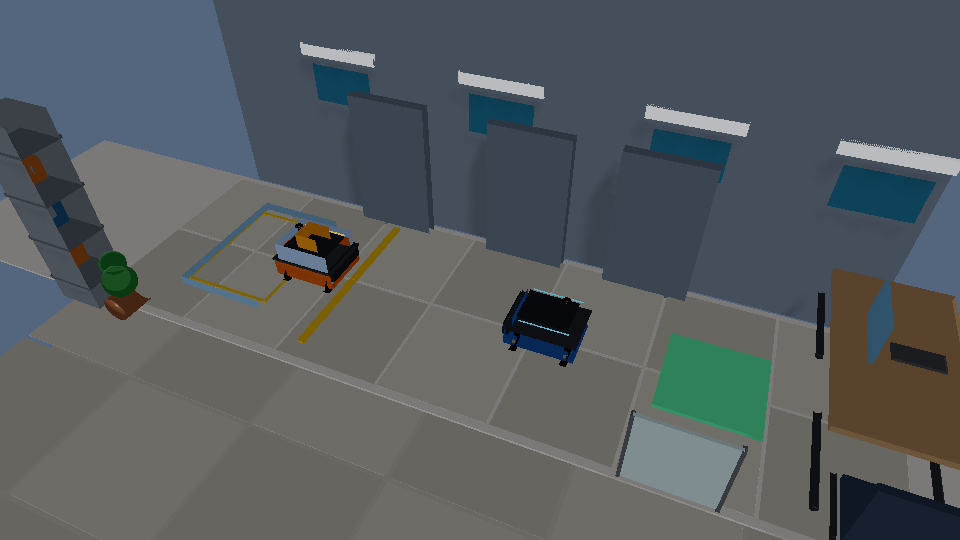
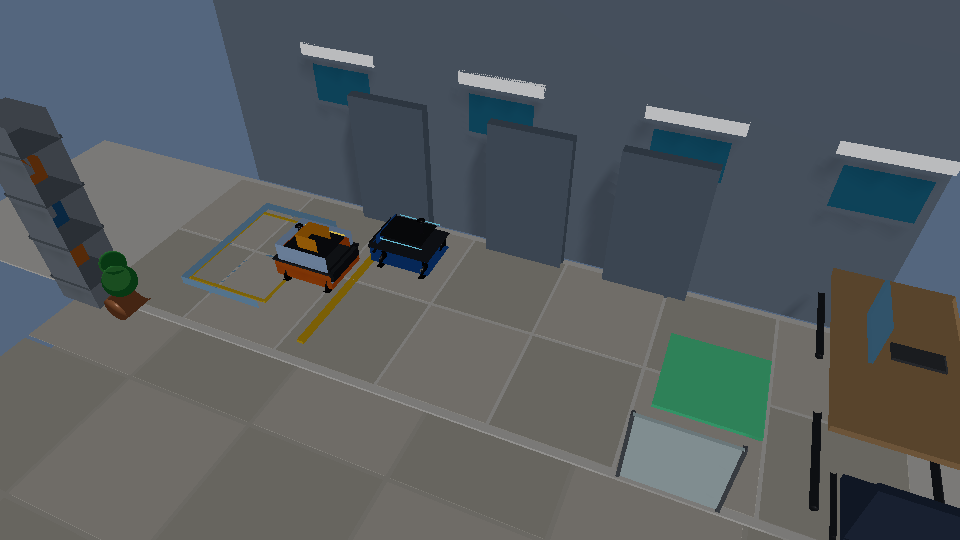
fix: let the two office AGVs pass each other instead of retreating (#336)
The Office AGV showcase was illegible: the oncoming vehicle drove into
the aisle, stopped halfway, reversed back out the way it came and parked
there for the rest of the run, while facing the same direction
throughout -- so on the return leg it slid backwards. The two vehicles
never came closer than 1.4 m, which left the ego stopping for 272 steps
to yield to something that stayed a metre and a half away and then left.

The cause was that both vehicles travelled along `z = 0`. Sharing one
line leaves the oncoming AGV no way past a waiting ego, so a U-turn was
the only exit available to it.

The corridor is 2 m wide and each vehicle is 0.4 m across, so it takes
two abreast -- except through the shared segment, which is the pinch the
yield exists for. `other_lane_z_m` now places the oncoming AGV on the
centre line while it is deep inside that segment and in its own lane
outside it, blending between the two so it is back in lane before its
footprint can reach an ego stopped at the entrance. It then drives
straight through and out, in one direction the whole way, so the fixed
render heading is the direction it is actually going.

Measured over the full rollout: closest approach between the two
vehicles goes from 1.396 m to 0.008 m in X, at step 600 -- they draw
level exactly as the ego moves off. `mission_complete`, `yielded`,
`dock_pickup` and `desk_place` all still hold and `no_other_agv_contact`
stays clear, with 0.15 m of lateral clearance.
[…]

diff --git a/crates/rne_ai/src/env/office_agv_shared_aisle.rs b/crates/rne_ai/src/env/office_agv_shared_aisle.rs
@@ -66,6 +66,25 @@ pub struct OfficeAgvSharedAisleCourse {
     pub required_yield_steps: u32,
 }
 
+/// Lane the oncoming AGV drives in outside the shared segment, as a Z offset
+/// from the corridor centre.
+///
+/// The corridor is 2 m wide and each vehicle is 0.4 m across, so outside the
+/// pinch there is room for two abreast. 0.55 m leaves 0.15 m of clearance
+/// against an ego stopped on the centre line.
+pub(crate) const OTHER_LANE_Z_M: f64 = -0.55;
+
+/// Distance inside the shared segment at which the oncoming AGV is fully on
+/// the centre line, in meters.
+const PINCH_FULL_DEPTH_M: f64 = 0.7;
+
+/// Distance inside the shared segment at which it has fully returned to its
+/// own lane, in meters.
+///
+/// It must be back in lane before its footprint can reach an ego waiting at the
+/// segment entrance, or the yield it is waiting out would end in a collision.
+const PINCH_LANE_DEPTH_M: f64 = 0.2;
+
 impl Default for OfficeAgvSharedAisleCourse {
     fn default() -> Self {
         Self {
@@ -77,7 +96,9 @@ impl Default for OfficeAgvSharedAisleCourse {
             other_start_x_m: 6.2,
             other_speed_m_s: 0.55,
             other_departure_delay_s: 4.5,
-            other_clear_x_m: 7.2,
+            // Past the near end of the shared segment and out of the framed
+            // aisle, so the vehicle leaves rather than parking mid-corridor.
+            other_clear_x_m: 0.6,
             required_yield_steps: 12,
         }
     }
@@ -100,6 +121,21 @@ impl OfficeAgvSharedAisleCourse {
     #[must_use]
     pub fn other_blocks_ego(self, other_x_m: f64) -> bool {
         self.other_occupies_shared(other_x_m)
+    }
+
+    /// Lateral position of the oncoming AGV at a given X, in meters.
+    ///
+    /// The shared segment is a single-lane pinch: both vehicles have to take
+    /// the centre line through it, which is the whole reason one of them must
+    /// yield. Outside it the corridor takes two abreast, so the AGV moves back
+    /// into its own lane and passes the waiting ego instead of reversing away
+    /// from it.
+    #[must_use]
+    pub fn other_lane_z_m(self, other_x_m: f64) -> f64 {
+        let depth_m = (other_x_m - self.shared_min_x_m).min(self.shared_max_x_m - other_x_m);
+        let centred = ((depth_m - PINCH_LANE_DEPTH_M) / (PINCH_FULL_DEPTH_M - PINCH_LANE_DEPTH_M))
+            .clamp(0.0, 1.0);
+        OTHER_LANE_Z_M * (1.0 - centred)
     }
 
     /// True when the oncoming footprint still intersects the shared segment.
@@ -278,8 +314,7 @@ enum ScriptPhase {
 #[derive(Clone, Copy, Debug, PartialEq, Eq)]
 enum OtherMotion {
     Waiting,
-    Entering,
-    Exiting,
+    Crossing,
     Cleared,
 }
 
@@ -327,25 +362,22 @@ impl OfficeAgvSharedAisleScenario {
         self.observation
     }
 
+    /// Drives the oncoming AGV down its own lane and out of the aisle.
+    ///
+    /// It travels in one direction throughout, so its heading never has to
+    /// reverse and it passes the yielding ego rather than retreating from it.
     fn advance_other_agv(&mut self) {
         let elapsed_s = self.sim.step_count() as f64 * DT_S;
         let step_m = self.course.other_speed_m_s * DT_S;
-        let turn_x_m = 0.5 * (self.course.shared_min_x_m + self.course.shared_max_x_m);
         match self.other_motion {
             OtherMotion::Waiting => {
                 if elapsed_s >= self.course.other_departure_delay_s {
-                    self.other_motion = OtherMotion::Entering;
+                    self.other_motion = OtherMotion::Crossing;
                 }
             }
-            OtherMotion::Entering => {
+            OtherMotion::Crossing => {
                 self.other_agv_x_m -= step_m;
-                if self.other_agv_x_m <= turn_x_m {
-                    self.other_motion = OtherMotion::Exiting;
-                }
-            }
-            OtherMotion::Exiting => {
-                self.other_agv_x_m += step_m;
-                if self.other_agv_x_m >= self.course.other_clear_x_m {
+                if self.other_agv_x_m <= self.course.other_clear_x_m {
                     self.other_agv_x_m = self.course.other_clear_x_m;
                     self.other_motion = OtherMotion::Cleared;
                 }
@@ -367,7 +399,10 @@ impl OfficeAgvSharedAisleScenario {
             self.course
                 .delivery
                 .robot_aabb(drive.base_x_m, drive.base_z_m, drive.base_yaw_rad);
-        let other = self.course.other_aabb(self.other_agv_x_m, 0.0);
+        let other = self.course.other_aabb(
+            self.other_agv_x_m,
+            self.course.other_lane_z_m(self.other_agv_x_m),
+        );
         let shared_aisle_occupied = self.course.other_occupies_shared(self.other_agv_x_m);
         let other_agv_contact = self.other_agv_contact || aabb.overlaps(other);
         let out_of_corridor = aabb.max_z_m > self.course.delivery.corridor_half_width_m
@@ -406,7 +441,10 @@ impl OfficeAgvSharedAisleScenario {
             observation.base_z_m,
             observation.base_yaw_rad,
         );
-        let other = self.course.other_aabb(self.other_agv_x_m, 0.0);
+        let other = self.course.other_aabb(
+            self.other_agv_x_m,
+            self.course.other_lane_z_m(self.other_agv_x_m),
+        );
         self.other_agv_contact = observation.other_agv_contact || aabb.overlaps(other);
 
         if !self.yielded_for_shared_aisle {
@@ -754,6 +792,44 @@ mod tests {
         )
         .expect("parse task spec");
         assert_eq!(spec, loaded);
+    }
+
+    #[test]
+    fn the_oncoming_agv_crosses_the_pinch_and_keeps_going() {
+        let course = OfficeAgvSharedAisleCourse::default();
+
+        // Centred inside the pinch, where only one vehicle fits.
+        let middle_x_m = 0.5 * (course.shared_min_x_m + course.shared_max_x_m);
+        assert!(
+            course.other_lane_z_m(middle_x_m).abs() < 1.0e-9,
+            "the pinch must put the oncoming AGV on the centre line"
+        );
+
+        // In its own lane before its footprint can reach an ego stopped at the
+        // entrance, so the vehicle it is waiting out never gets hit.
+        let entrance_x_m = course.shared_min_x_m + PINCH_LANE_DEPTH_M;
+        assert!(
+            (course.other_lane_z_m(entrance_x_m) - OTHER_LANE_Z_M).abs() < 1.0e-9,
+            "the oncoming AGV must be back in lane by the pinch exit"
+        );
+        assert!(
+            (course.other_lane_z_m(course.other_start_x_m) - OTHER_LANE_Z_M).abs() < 1.0e-9,
+            "the oncoming AGV must start in its own lane"
+        );
+
+        // Clearance against an ego halted on the centre line.
+        let gap_m = OTHER_LANE_Z_M.abs() - course.other_half_z_m - course.delivery.robot_half_z_m;
+        assert!(
+            gap_m > 0.1,
+            "passing an ego on the centre line needs clearance, got {gap_m:.3} m"
+        );
+
+        // It drives through rather than turning around: the far side is past
+        // the near end of the pinch, not back where it started.
+        assert!(
+            course.other_clear_x_m < course.shared_min_x_m,
+            "the oncoming AGV must leave through the pinch, not reverse out of it"
+        );
     }
 
     #[test]

diff --git a/crates/rne_ai/src/env/office_agv_desk_place.rs b/crates/rne_ai/src/env/office_agv_desk_place.rs
@@ -267,8 +267,7 @@ enum ScriptPhase {
 #[derive(Clone, Copy, Debug, PartialEq, Eq)]
 enum OtherMotion {
     Waiting,
-    Entering,
-    Exiting,
+    Crossing,
     Cleared,
 }
 
@@ -341,28 +340,28 @@ impl OfficeAgvDeskPlaceScenario {
     /// Returns the render-only oncoming AGV position in world X/Z meters.
     #[must_use]
     pub fn other_agv_translation_m(&self) -> (f64, f64) {
-        (self.other_agv_x_m, 0.0)
+        (
+            self.other_agv_x_m,
+            self.course.aisle.other_lane_z_m(self.other_agv_x_m),
+        )
     }
 
+    /// Drives the oncoming AGV down its own lane and out of the aisle.
+    ///
+    /// It travels in one direction throughout, so its heading never has to
+    /// reverse and it passes the yielding ego rather than retreating from it.
     fn advance_other_agv(&mut self) {
         let elapsed_s = self.sim.step_count() as f64 * DT_S;
         let step_m = self.course.aisle.other_speed_m_s * DT_S;
-        let turn_x_m = 0.5 * (self.course.aisle.shared_min_x_m + self.course.aisle.shared_max_x_m);
         match self.other_motion {
             OtherMotion::Waiting => {
                 if elapsed_s >= self.course.aisle.other_departure_delay_s {
-                    self.other_motion = OtherMotion::Entering;
+                    self.other_motion = OtherMotion::Crossing;
                 }
             }
-            OtherMotion::Entering => {
+            OtherMotion::Crossing => {
                 self.other_agv_x_m -= step_m;
-                if self.other_agv_x_m <= turn_x_m {
-                    self.other_motion = OtherMotion::Exiting;
-                }
-            }
-            OtherMotion::Exiting => {
-                self.other_agv_x_m += step_m;
-                if self.other_agv_x_m >= self.course.aisle.other_clear_x_m {
+                if self.other_agv_x_m <= self.course.aisle.other_clear_x_m {
                     self.other_agv_x_m = self.course.aisle.other_clear_x_m;
                     self.other_motion = OtherMotion::Cleared;
                 }
@@ -384,7 +383,10 @@ impl OfficeAgvDeskPlaceScenario {
             self.course
                 .delivery()
                 .robot_aabb(drive.base_x_m, drive.base_z_m, drive.base_yaw_rad);
-        let other = self.course.aisle.other_aabb(self.other_agv_x_m, 0.0);
+        let other = self.course.aisle.other_aabb(
+            self.other_agv_x_m,
+            self.course.aisle.other_lane_z_m(self.other_agv_x_m),
+        );
         let shared_aisle_occupied = self.course.aisle.other_occupies_shared(self.other_agv_x_m);
         let other_agv_contact = self.other_agv_contact || aabb.overlaps(other);
         let out_of_corridor = aabb.max_z_m > self.course.delivery().corridor_half_width_m
@@ -426,7 +428,10 @@ impl OfficeAgvDeskPlaceScenario {
             observation.base_z_m,
             observation.base_yaw_rad,
         );
-        let other = self.course.aisle.other_aabb(self.other_agv_x_m, 0.0);
+        let other = self.course.aisle.other_aabb(
+            self.other_agv_x_m,
+            self.course.aisle.other_lane_z_m(self.other_agv_x_m),
+        );
         self.other_agv_contact = observation.other_agv_contact || aabb.overlaps(other);
 
         if !self.yielded_for_shared_aisle {

diff --git a/examples/90_showcase_captures/office.rs b/examples/90_showcase_captures/office.rs
@@ -542,6 +542,7 @@ pub(crate) fn render_scene(
         ([0.83, 0.81, 0.76, 1.0], [0.76, 0.74, 0.69, 1.0]),
     );
     let (cargo_x_m, cargo_z_m) = scenario.cargo_translation_m();
+    let (other_agv_x_m, other_agv_z_m) = scenario.other_agv_translation_m();
     push_agv(
         &mut scene,
         Vec3::new(observation.base_x_m, 0.24, observation.base_z_m),
@@ -551,10 +552,12 @@ pub(crate) fn render_scene(
         [1.0, 0.55, 0.06, 1.0],
     );
     // The oncoming AGV and cargo are intentionally render-only proxies whose
-    // transforms are copied from the scenario observation on every frame.
+    // transforms are copied from the scenario state on every frame. The AGV
+    // travels in the opposite lane and only ever drives toward -X, so a fixed
+    // heading of PI is the direction it is actually going.
     push_agv(
         &mut scene,
-        Vec3::new(observation.other_agv_x_m, 0.24, 0.0),
+        Vec3::new(other_agv_x_m, 0.24, other_agv_z_m),
         std::f64::consts::PI,
         [0.10, 0.32, 0.72, 1.0],
         [0.13, 0.14, 0.16, 1.0],
